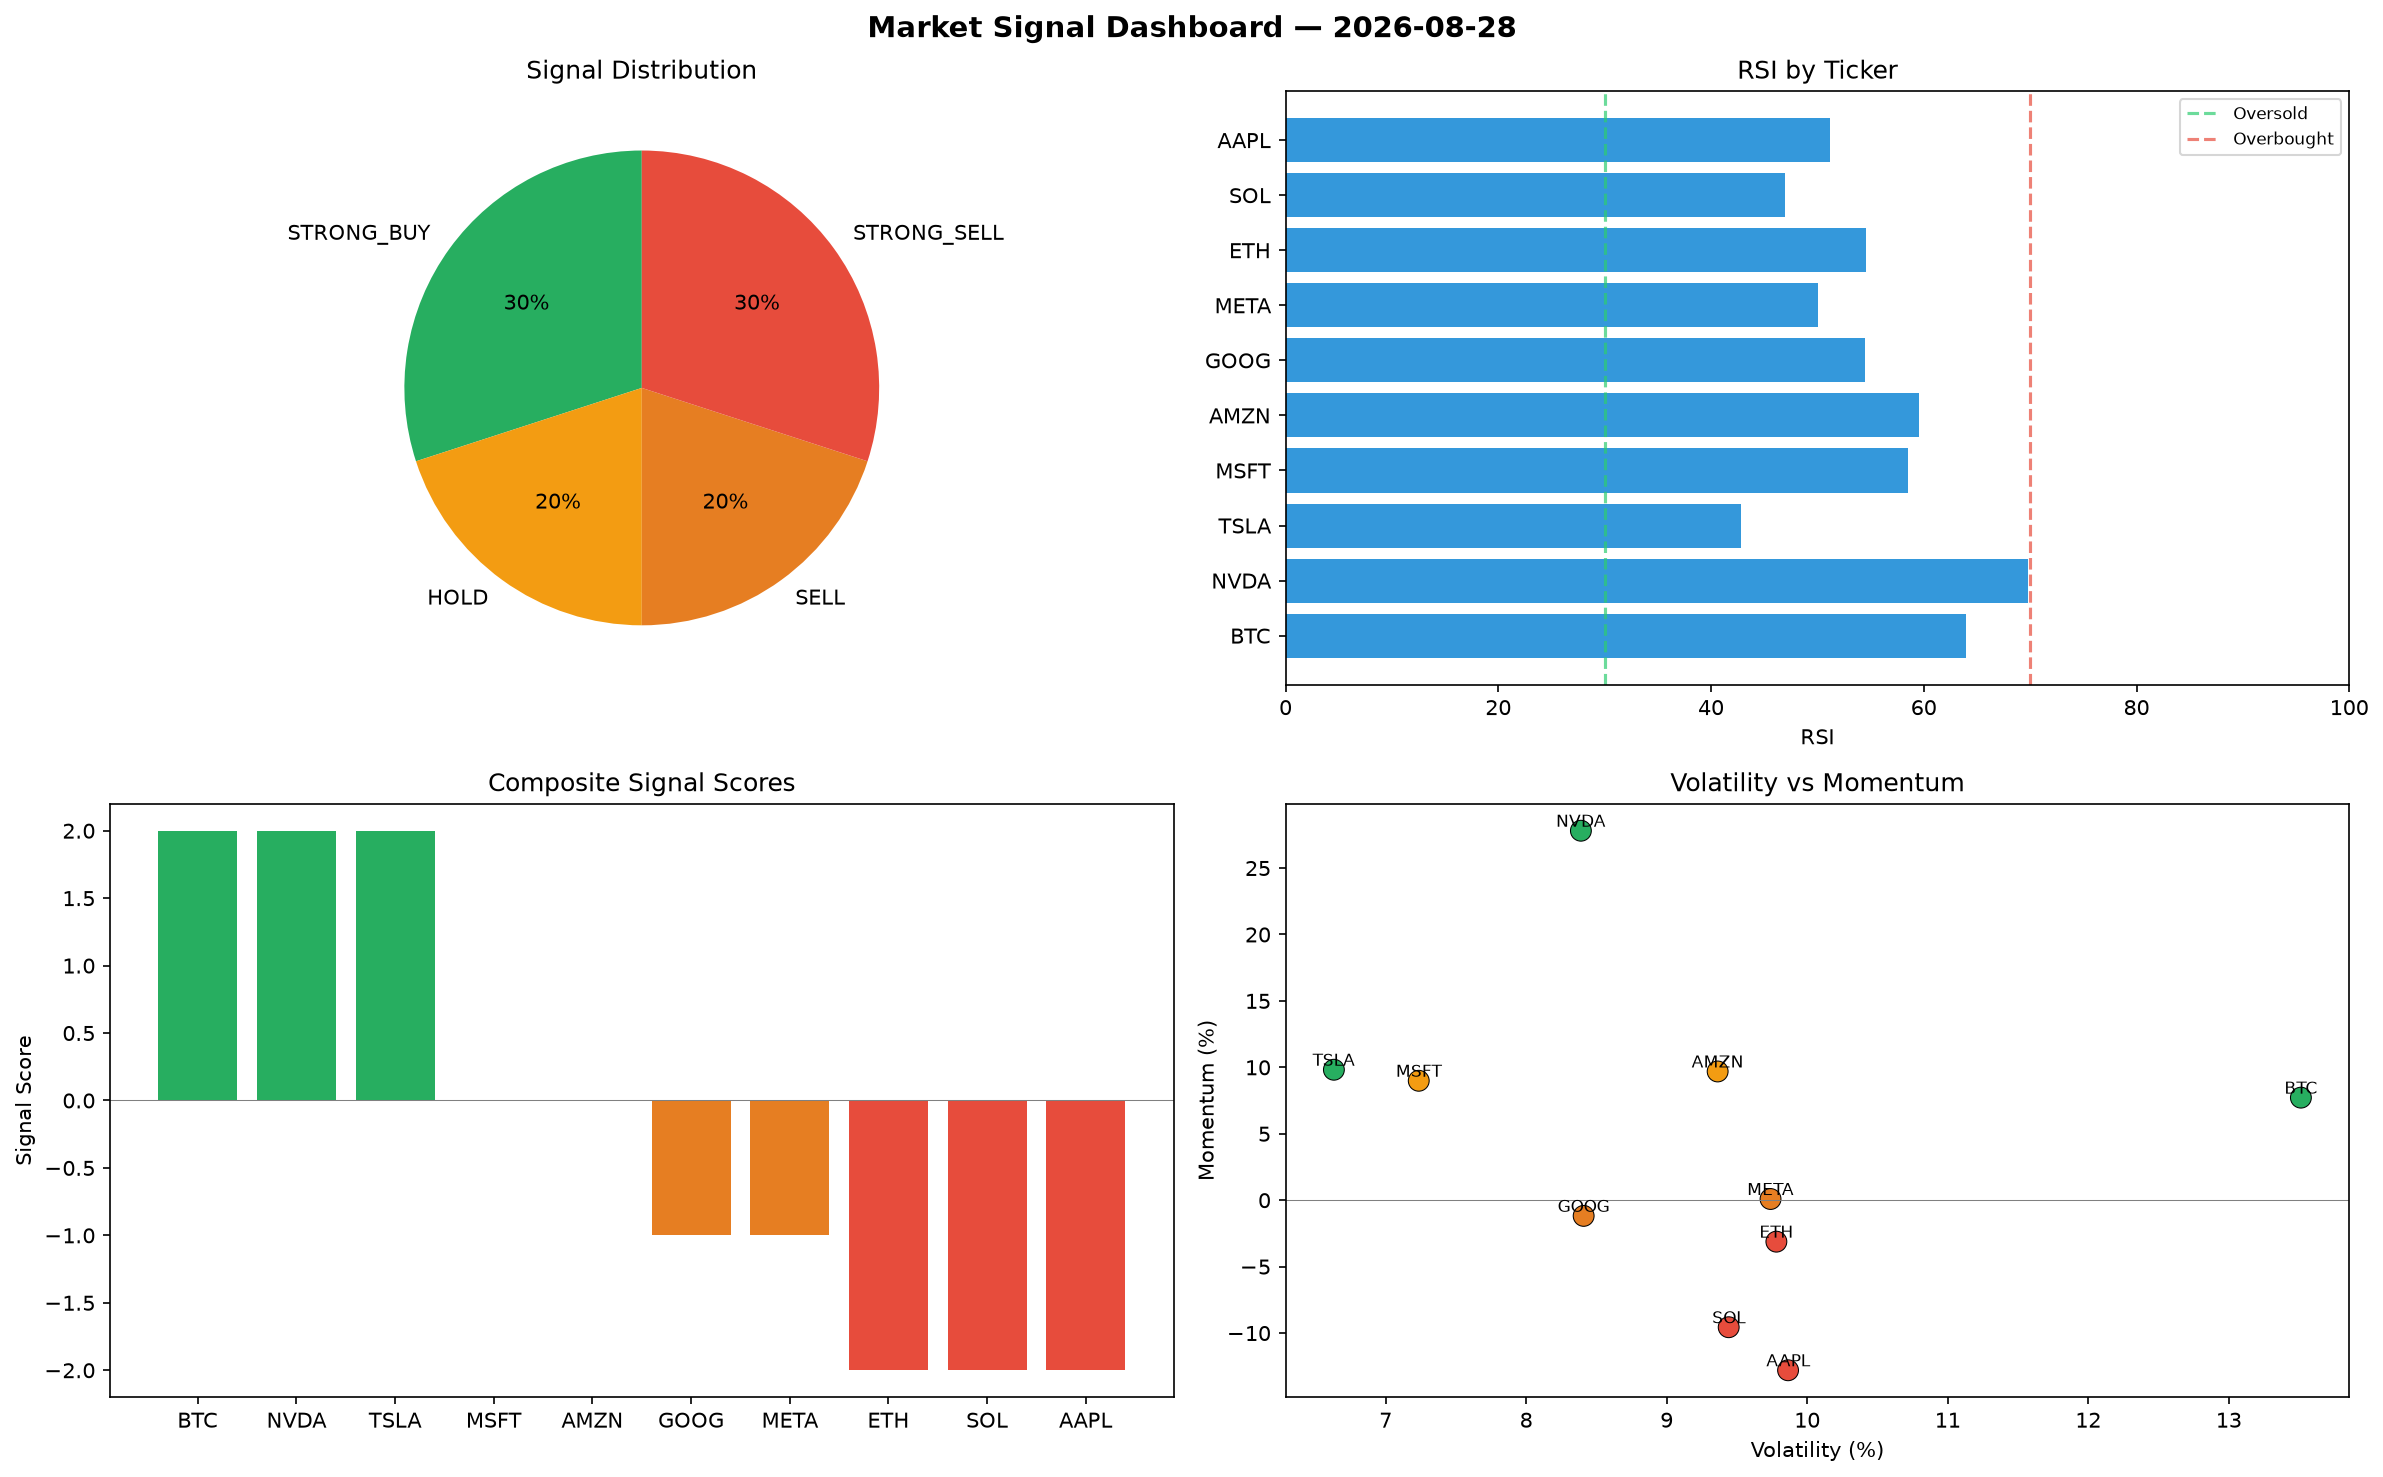
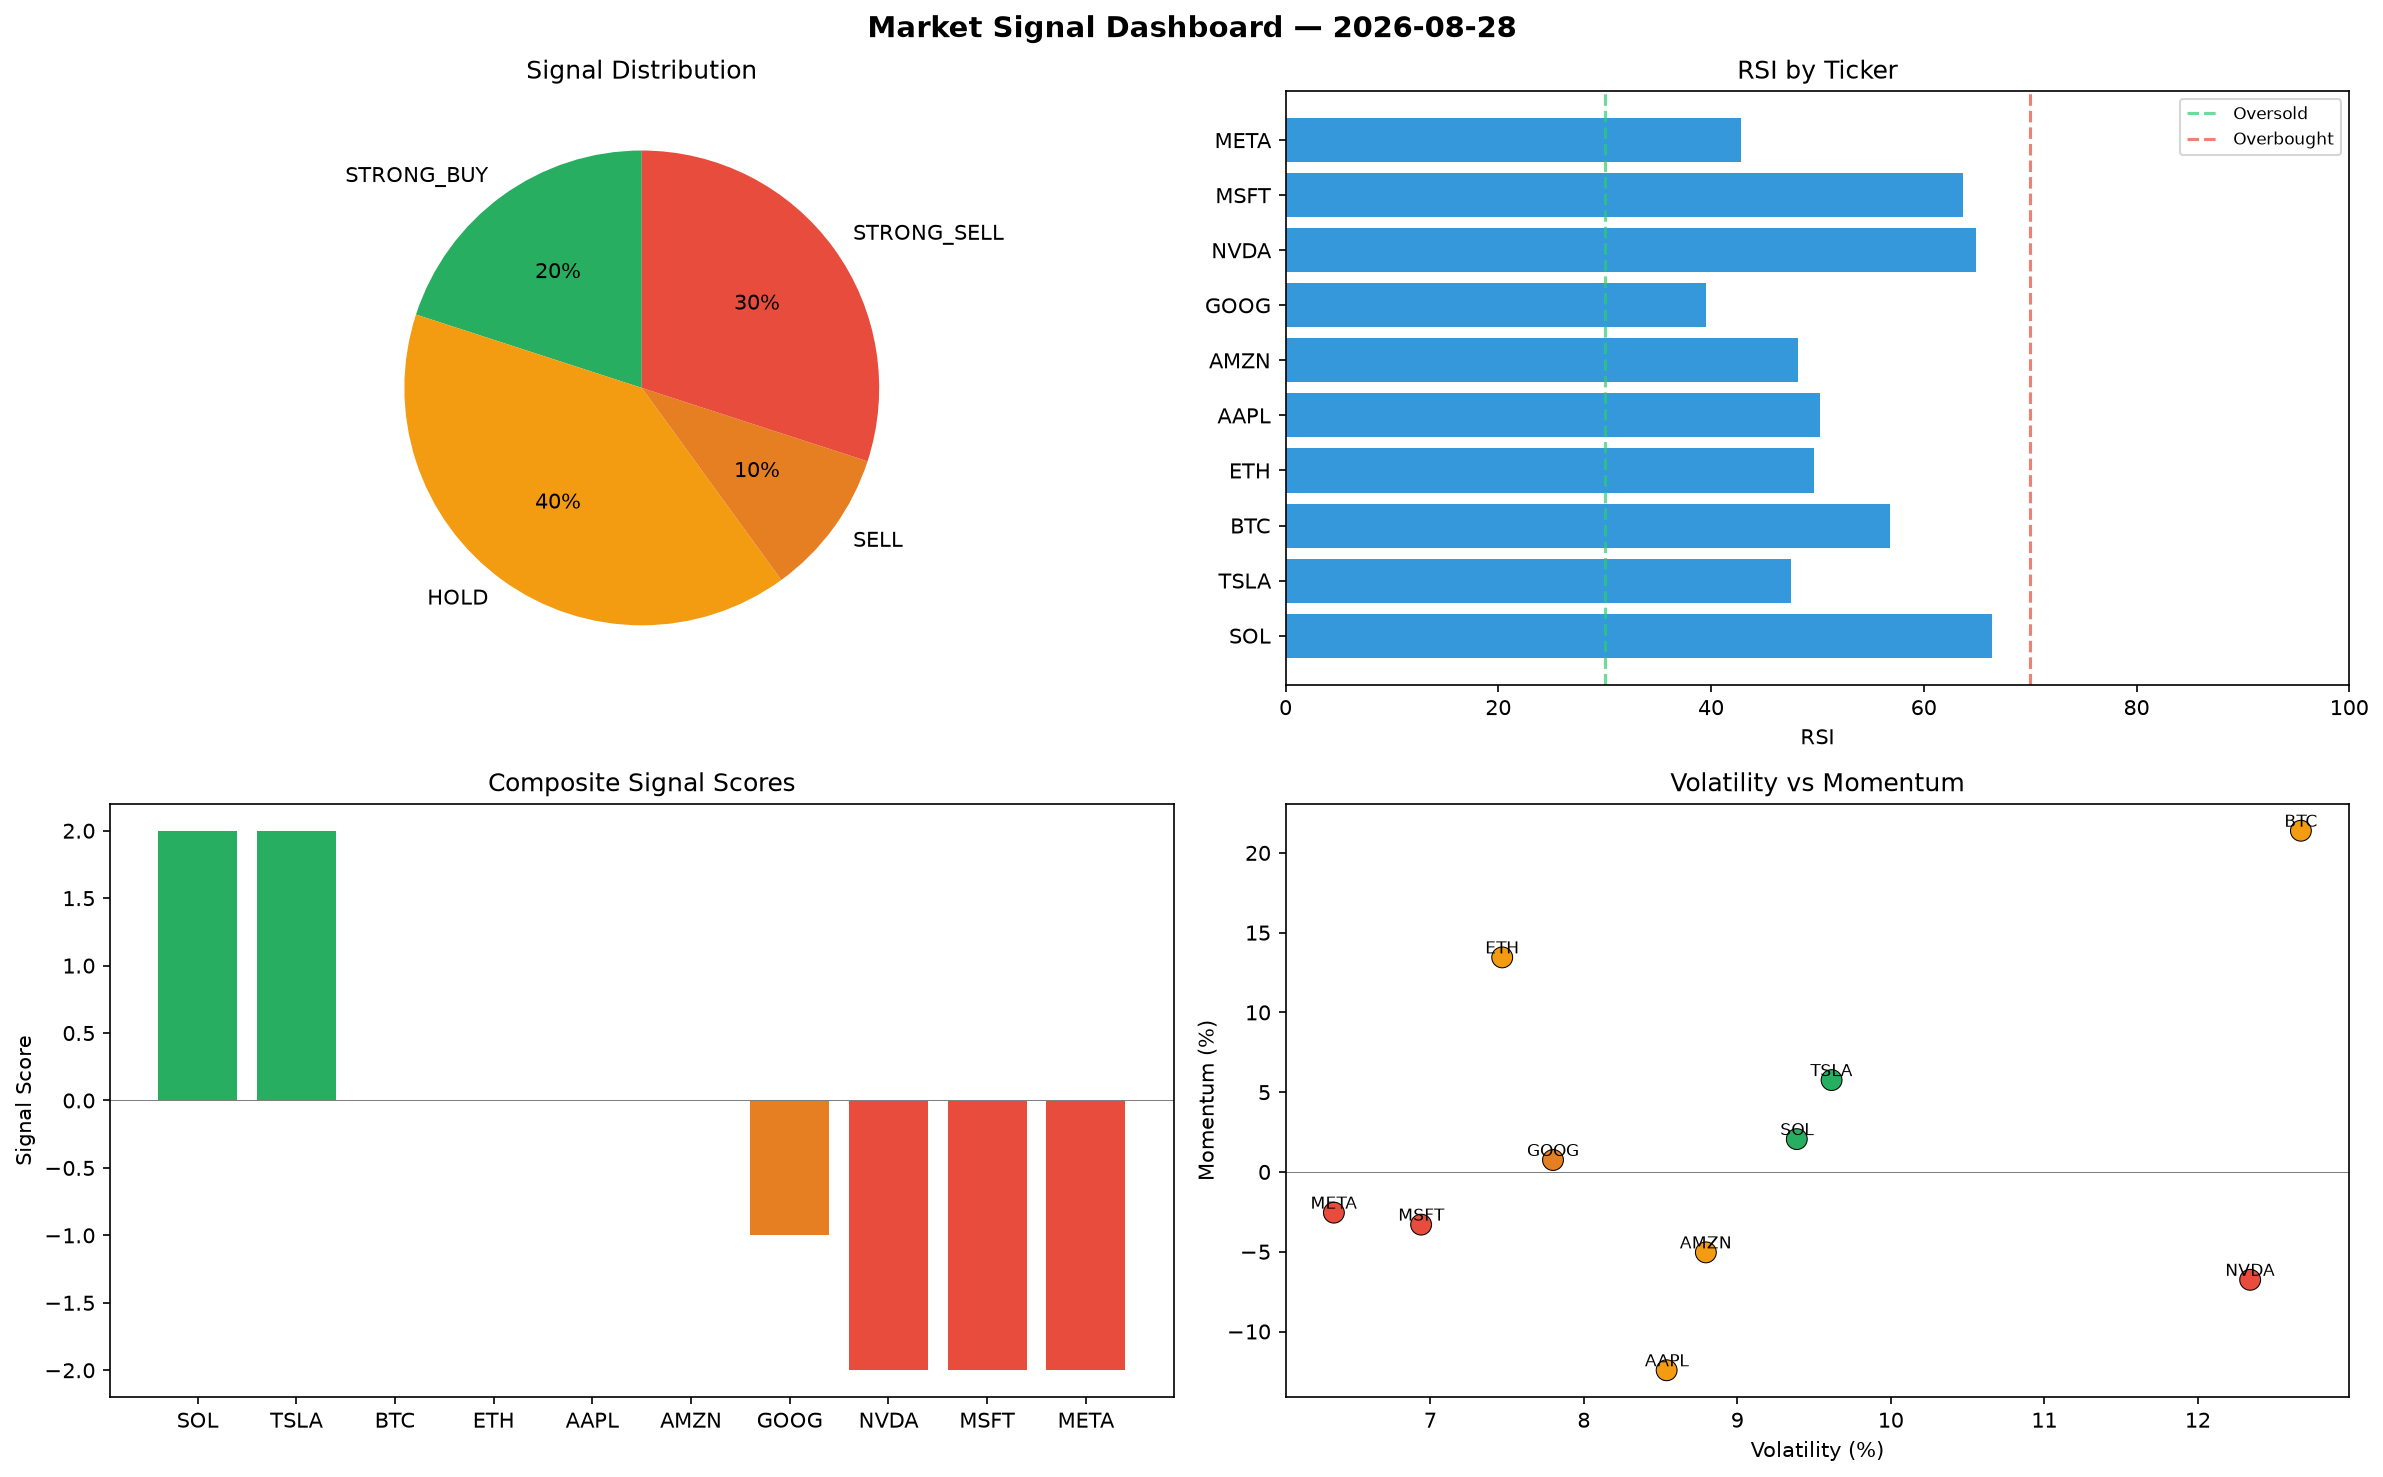
automated-bots: market signals 2026-08-28T14:29

diff --git a/logs/2026-08-28.md b/logs/2026-08-28.md
@@ -1,6 +1,6 @@
 # Market Signal Report — 2026-08-28
 
-**Run ID:** `a103778fee` | **Buy:** 3 | **Sell:** 5 | **Hold:** 2
+**Run ID:** `eb3acfa92e` | **Buy:** 2 | **Sell:** 4 | **Hold:** 4
 
 ![Dashboard](2026-08-28_dashboard.png)
 
@@ -8,28 +8,28 @@
 
 | Ticker | Price | Signal | Score | RSI | Momentum | Confidence |
 |--------|-------|--------|-------|-----|----------|------------|
-| BTC | $2572.02 | **STRONG_BUY** | 2 | 64.0 | 0.0772 | 0.5 |
-| NVDA | $4847.38 | **STRONG_BUY** | 2 | 69.83 | 0.2781 | 0.5 |
-| TSLA | $2991.77 | **STRONG_BUY** | 2 | 42.79 | 0.0982 | 0.5 |
-| MSFT | $701.45 | **HOLD** | 0 | 58.51 | 0.0899 | 0.0 |
-| AMZN | $5287.67 | **HOLD** | 0 | 59.53 | 0.0969 | 0.0 |
-| GOOG | $821.05 | **SELL** | -1 | 54.49 | -0.0118 | 0.25 |
-| META | $3407.77 | **SELL** | -1 | 50.09 | 0.0009 | 0.25 |
-| ETH | $262.63 | **STRONG_SELL** | -2 | 54.59 | -0.0312 | 0.5 |
-| SOL | $4066.57 | **STRONG_SELL** | -2 | 46.99 | -0.0956 | 0.5 |
-| AAPL | $1307.62 | **STRONG_SELL** | -2 | 51.21 | -0.128 | 0.5 |
+| SOL | $1024.24 | **STRONG_BUY** | 2 | 66.4 | 0.0206 | 0.5 |
+| TSLA | $3824.94 | **STRONG_BUY** | 2 | 47.48 | 0.0576 | 0.5 |
+| BTC | $2078.64 | **HOLD** | 0 | 56.86 | 0.2139 | 0.0 |
+| ETH | $2468.56 | **HOLD** | 0 | 49.72 | 0.1345 | 0.0 |
+| AAPL | $2626.73 | **HOLD** | 0 | 50.25 | -0.1243 | 0.0 |
+| AMZN | $1832.85 | **HOLD** | 0 | 48.2 | -0.0504 | 0.0 |
+| GOOG | $2896.46 | **SELL** | -1 | 39.5 | 0.0075 | 0.25 |
+| NVDA | $3192.81 | **STRONG_SELL** | -2 | 64.89 | -0.0676 | 0.5 |
+| MSFT | $4666.69 | **STRONG_SELL** | -2 | 63.7 | -0.033 | 0.5 |
+| META | $1674.78 | **STRONG_SELL** | -2 | 42.79 | -0.0255 | 0.5 |
 
 ## Delta vs Yesterday
 
 | Ticker | Today | Yesterday | Price Change | Signal Changed |
 |--------|-------|-----------|-------------|----------------|
-| BTC | STRONG_BUY | HOLD | 📈 10.27% | ⚠ YES |
-| NVDA | STRONG_BUY | STRONG_BUY | 📈 215.17% | — |
-| TSLA | STRONG_BUY | STRONG_BUY | 📉 -45.05% | — |
-| MSFT | HOLD | STRONG_BUY | 📉 -70.12% | ⚠ YES |
-| AMZN | HOLD | STRONG_SELL | 📈 6564.57% | ⚠ YES |
-| GOOG | SELL | STRONG_SELL | 📉 -6.09% | ⚠ YES |
-| META | SELL | BUY | 📈 2455.7% | ⚠ YES |
-| ETH | STRONG_SELL | STRONG_BUY | 📉 -60.24% | ⚠ YES |
-| SOL | STRONG_SELL | SELL | 📉 -5.17% | ⚠ YES |
-| AAPL | STRONG_SELL | STRONG_BUY | 📉 -54.57% | ⚠ YES |
+| SOL | STRONG_BUY | SELL | 📉 -76.11% | ⚠ YES |
+| TSLA | STRONG_BUY | STRONG_BUY | 📉 -29.75% | — |
+| BTC | HOLD | HOLD | 📉 -10.88% | — |
+| ETH | HOLD | STRONG_BUY | 📈 273.75% | ⚠ YES |
+| AAPL | HOLD | STRONG_BUY | 📉 -8.75% | ⚠ YES |
+| AMZN | HOLD | STRONG_SELL | 📈 2210.12% | ⚠ YES |
+| GOOG | SELL | STRONG_SELL | 📈 231.31% | ⚠ YES |
+| NVDA | STRONG_SELL | STRONG_BUY | 📈 107.59% | ⚠ YES |
+| MSFT | STRONG_SELL | STRONG_BUY | 📈 98.8% | ⚠ YES |
+| META | STRONG_SELL | BUY | 📈 1156.02% | ⚠ YES |
